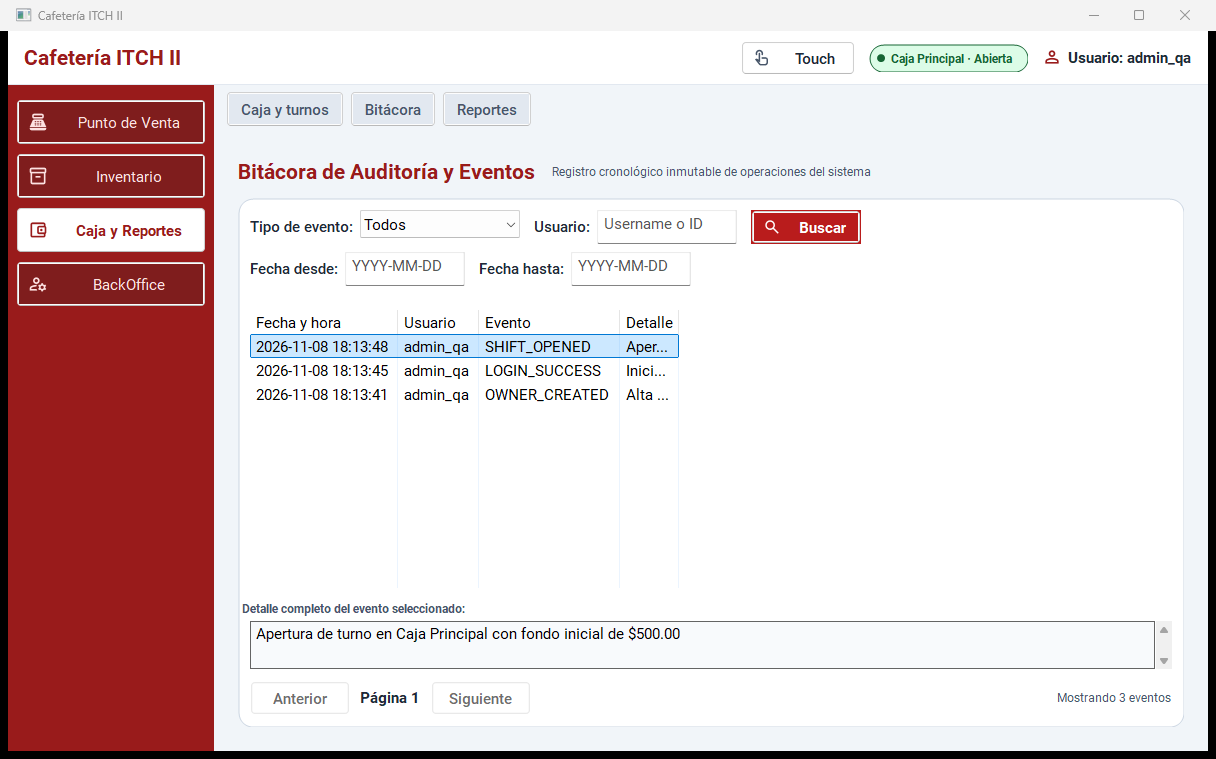
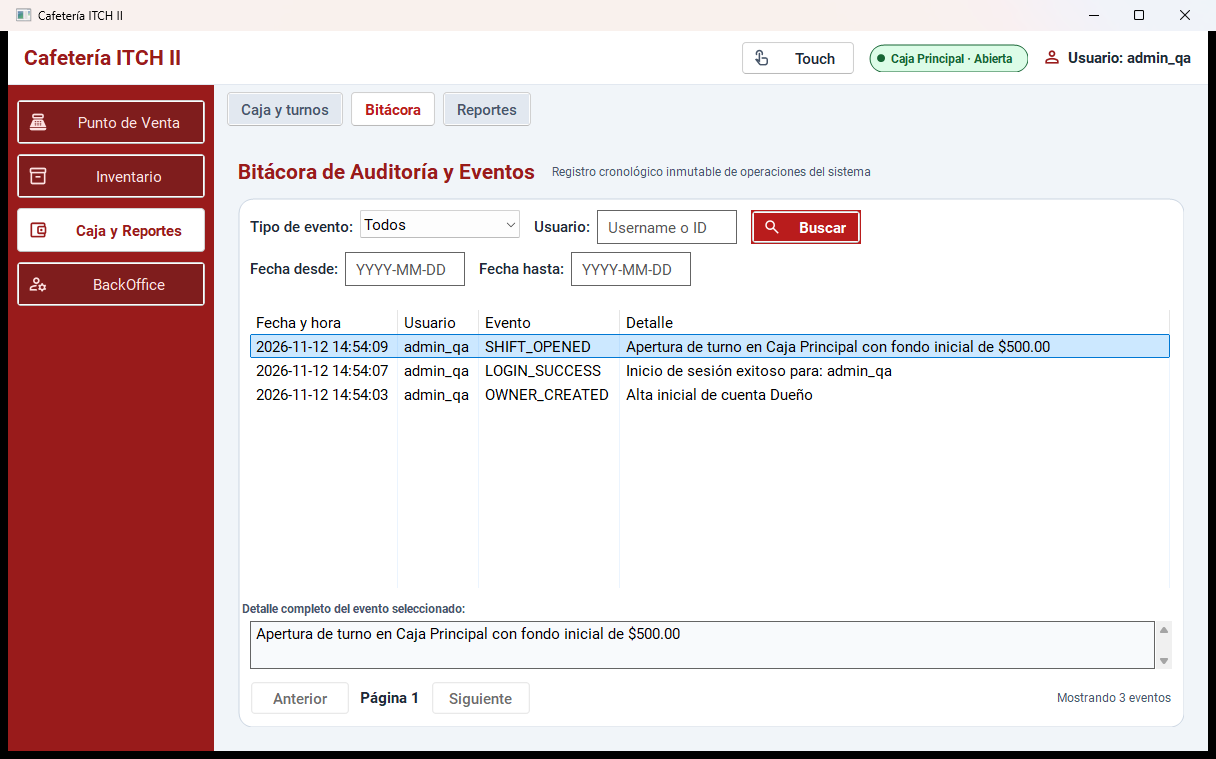
Auditoría de la ronda 4 (B3b, F2b), capturas 10/11 y estado del orquestador

diff --git a/auditoria-2026-10-18.md b/auditoria-2026-10-18.md
@@ -247,3 +247,24 @@ Conclusión provisional: la mejora visible viene de la memoria operativa de `AGE
 - Verificación integrada en `main`: build 0 advertencias, CTest 5/5 en Release y Debug, `test_i1_integration`, `test_f1_roles_panel`, `test_f2_audit_log`, `test_fe08_fe09_visual_integration` y `capture_visual_qa` exit 0. Capturas 09 y 10 regeneradas: encabezado «Descripción» completo.
 - No verificado: `test_i2_integration.py` no se repitió (B3a no toca venta ni caja). DPI 125/150/200 sin probar.
 - Observación cosmética (Touch): el campo deshabilitado se ve como un recuadro gris dentro del contenedor blanco con borde.
+
+## Ronda 4 — B3b y F2b (auditado el 2026-11-12)
+
+**B3b (Claude Code Terminal):** aceptado en `c71d586`, integrado en `af4e4bc`.
+
+- Alcance: `src/frontend/ui_helpers.{hpp,cpp}` (nuevos), `CMakeLists.txt` (solo esas dos fuentes), `backoffice_roles_panel.{cpp,hpp}`, `audit_log_panel.cpp`, `tests/test_f2_audit_log.py`.
+- Plan revisado antes de ejecutar, con tres ajustes aplicados: contenedor siempre que haya alto fijo (sin campo de prueba desechable), reparto de columnas idempotente sin estado por lista, y localización de campos por etiqueta en la prueba. Añadido `set_text_field_enabled` para el fondo del campo deshabilitado.
+- Prueba de Bitácora endurecida, ninguna aserción relajada: encabezado con su fuente, holgura ≤ 8 px, sin `WS_HSCROLL`, tres campos centrados (≤ 3 px) y falla si no hay tinta.
+- Medidas del orquestador (Release y Debug iguales): Estándar F=148 U=105 E=141 D=526 (cliente 922, holgura 2); Touch F=162 U=111 E=147 D=454 (cliente 876, holgura 2). Antes Detalle medía ~58 px.
+- No verificado: Bitácora con barra vertical visible; el color del campo deshabilitado no lo mide ninguna prueba (en la captura 10 el contenedor y el campo ya se ven del mismo gris).
+
+**F2b (AntiGravity):** aceptado en `dba641a`.
+
+- Alcance: `src/frontend/subnav_bar.{cpp,hpp}` y `tests/test_f2b_subnav.py` (nuevo).
+- Causa confirmada: `GetLabel().ToStdString()` contra el nombre UTF-8 no coincidía con acentos. Ahora cada botón guarda su nombre y `update_button_styles` pinta activo e inactivo.
+- Comprobación del orquestador: con el código anterior la prueba falla (`Clic en Catálogo visual ... 0 activos`); con el arreglo pasa en Release y Debug.
+
+**Verificación integrada en `main` (`af4e4bc`):** build 0 advertencias y CTest 5/5 en Release y Debug; `test_f1_roles_panel`, `test_f2b_subnav`, `test_fe08_fe09_visual_integration` y `capture_visual_qa` exit 0. Capturas 10 y 11 regeneradas: «Bitácora» resaltada, Detalle a todo el ancho, texto de filtros centrado.
+
+- **Intermitencia observada:** en la primera pasada `test_i1_integration` y `test_f2_audit_log` (sesión 3, Debug) fallaron por tiempo de espera: tras enviar el inicio de sesión, la ventana principal no apareció en 12–15 s. Repetidas a solas pasaron (I1 dos veces, F2 una). Ningún bloque de la ronda toca el inicio de sesión. Causa no determinada; sospecha: pérdida de foco del escritorio durante la prueba. Queda como pendiente.
+- No verificado: `test_i2_integration.py` no se repitió.

diff --git a/ORQUESTADOR.md b/ORQUESTADOR.md
@@ -13,8 +13,7 @@ Solo para el orquestador. Los agentes trabajadores no necesitan este archivo: lo
 
 ## Ronda en curso
 
-Ronda 3 cerrada e integrada el 2026-11-12 (`1bb0a4d`): **F2** (Bitácora, `1353162`) y **B3a** (panel de roles por regla de dos pasadas, `9ff0e9e`) aceptados; capturas 09/10 regeneradas. Worktree del backend en la rama `backend/b3b`, partiendo de `main`.
-**Ronda 4 enviada** (`prompts-2026-11-12-ronda4.md`): **B3b** (Claude: `ui_helpers` con reparto de columnas y campo centrado, aplicado a Roles y Bitácora; endurece `test_f2_audit_log.py`) y **F2b** (Gemini: resaltado de subsección; causa probable `GetLabel().ToStdString()` contra UTF-8 en `subnav_bar.cpp`, falla con acentos; prueba nueva `test_f2b_subnav.py`). Excepción: ambos corren pruebas GUI comprobando antes `tasklist`. Al integrar: regenerar captura 11. Después F3 (UI Respaldos) y F4 (UI Reportes). Bloque grande de backend sin elegir (corte de turno I4 u otros pendientes técnicos).
+Ronda 4 parcial, integrada el 2026-11-12 (`af4e4bc`): **B3b** (`c71d586`, utilidades `ui_helpers`) y **F2b** (`dba641a`, resaltado de subsección) aceptados; capturas 10 y 11 regeneradas. En cola, prompts en `prompts-2026-11-12-ronda4.md`: **B4a** (Claude, títulos de permisos, migración 009; rama `backend/b4a` ya al día con `main`) -> **F5** (Gemini, interruptores; requiere B4a integrado) y **B4** (Claude, ajustes de datos, migraciones desde 010; tras B4a). Después F3 (UI Respaldos) y F4 (UI Reportes).
 
 ## Decisiones del usuario
 
@@ -50,6 +49,8 @@ Ronda 3 cerrada e integrada el 2026-11-12 (`1bb0a4d`): **F2** (Bitácora, `13531
 - **Caveman:** su README mide ~3 % de ahorro de salida (ruido). Ronda 2 comparada en `auditoria-2026-10-18.md`: la mejora visible vino de la memoria operativa, los prompts acotados y las pruebas estrictas; sin evidencia separable de caveman. El orquestador no lo usa (decisión del usuario).
 
 ## Pendientes conocidos (no asignados)
+
+- Pruebas GUI intermitentes (2026-11-12): `test_i1_integration` y `test_f2_audit_log` fallaron una vez por tiempo de espera tras el inicio de sesión y pasaron al repetir. Investigar cómo envían el inicio de sesión (foco o tiempos fijos) antes de fiarse de una sola pasada. Al auditar, repetir a solas antes de culpar a un bloque.
 
 - Candidatos de backend para B3: build `build_hooks` con `-DCAFETERIA_TEST_HOOKS=ON` para el requerimiento 8 de I2; retención y limpieza de `backups/`; persistir `get_developer_server_config`; conciliación del corte de turno (I4, depende en parte de la sección 9).
 - F1b menores: encabezado «Descripción» recortado, filas de la lista de roles sin altura táctil, texto arriba en campos de 48 px en Touch.
